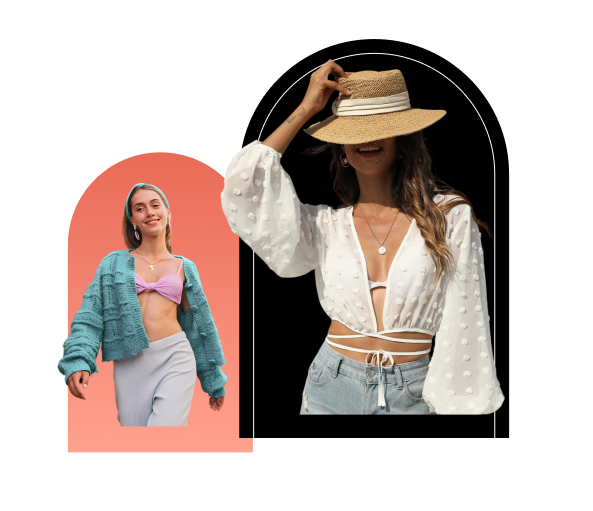
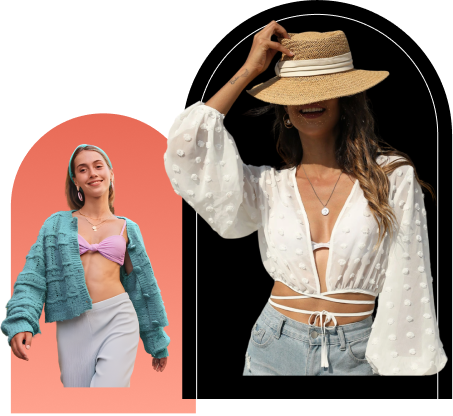
updates

diff --git a/css/responsive.css b/css/responsive.css
@@ -273,16 +273,43 @@
         justify-content: flex-start;
         white-space: nowrap;
     }
+
+    .breadcrumb_tag{
+        font-size: 13px;
+        padding: 10px 0;
+        border-width: 5px;
+    }
+    .breadcrumb_logo{
+        background-color: transparent;
+        overflow: hidden;
+    }
+    .breadcrumb_logo img{
+        height: 70px;
+        width: 70px;
+    }
     .bread_title{
         top: 100px;
         left: 50%;
         translate: -50% 0;
+        width: 80%;
+        text-align: center;
     }
     .bread_title .breadcrumb
     {
         justify-content: center;
     }
-
+    .breadcrumbs{
+        background-position: center top;
+    }
+    .breadcrumb_lady{
+        left: 5%;
+        bottom: 140px;
+        width: 90%;
+    }
+    .breadcrumb_shirt {
+        top: 23%;
+        left: 6%;
+    }
     .title_dots{
         margin: 0 auto;
     }
@@ -299,8 +326,23 @@
     .about_content .about_text{
         margin-bottom: 50px;
     }
-    #counter .count.percent{
-        font-size: 45px;
+    #counter-container .count.percent{
+        font-size: 45px !important;
+        background: transparent;
+        background-clip: initial;
+        -webkit-text-fill-color: #E86A56;
+    }
+    .single_count{
+        padding-bottom: 30px;
+    }
+    .single_count::before{
+        background-image: linear-gradient(to right,#000, #E86A56, #000);
+        width: 30%;
+        height: 2px;
+        left: 50%;
+        transform: translateX(-50%);
+        bottom: 0;
+        top: auto;
     }
     .about_center_img{
         padding: 0;
@@ -348,13 +390,21 @@
     .customize .sec_title h1{
         font-size: 30px;
     }
-    .customize_divider{
-        scale: 2;
-        padding-bottom: 50px;
+    .single_small{
+        width: 180px;
+        height: 80px;
+    }
+    .customize_small_img{
+        transform: translateX(-45%)
+    }
+    .personalize_img{
+        margin-bottom: 50px;
     }
     .all_map_location{
         text-align: center;
         margin-top: 0 !important;
+        background-image: none;
+        height: auto;
     }
     .location{
         position: static;

diff --git a/about.html b/about.html
@@ -160,21 +160,21 @@
                             <img src="image/image 215.png" class="left_round_img" alt="">
                         </div>
                     </div>
-                    <div class="row g-4 mt-5" id="counter-container">
+                    <div class="row g-md-4 gy-5 mt-5" id="counter-container">
                         <div class="col-lg-3 single_count position-relative">
-                            <p class="h1 count percent" data-count="2500">2500</p>
+                            <p class=" count percent" data-count="2500">2500</p>
                             <span>Happy Cutomers</span>
                         </div>
                         <div class="col-lg-3 single_count position-relative">
-                            <p class="h1 count percent" data-count="105">105</p>
+                            <p class=" count percent" data-count="105">105</p>
                             <span>Reviews</span>
                         </div>
                         <div class="col-lg-3 single_count position-relative">
-                            <p class="h1 count percent" data-count="250">250</p>
+                            <p class=" count percent" data-count="250">250</p>
                             <span>Month Traffic</span>
                         </div>
                         <div class="col-lg-3 single_count position-relative">
-                            <p class="h1 count percent" data-count="3.5">3.5</p>
+                            <p class=" count percent" data-count="3.5">3.5</p>
                             <span>Smart Products</span>
                         </div>
                     </div>
